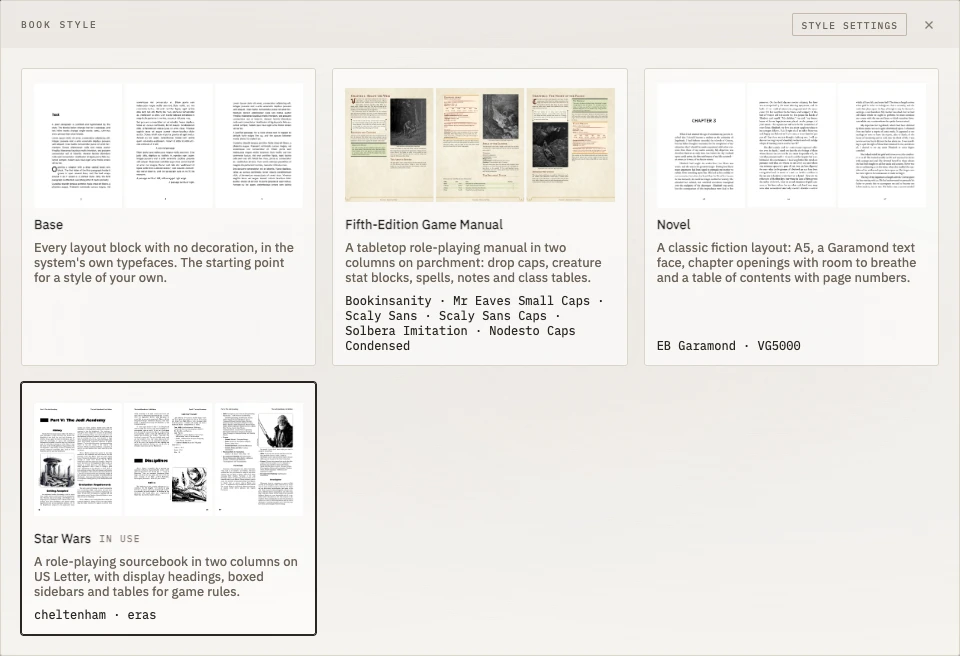
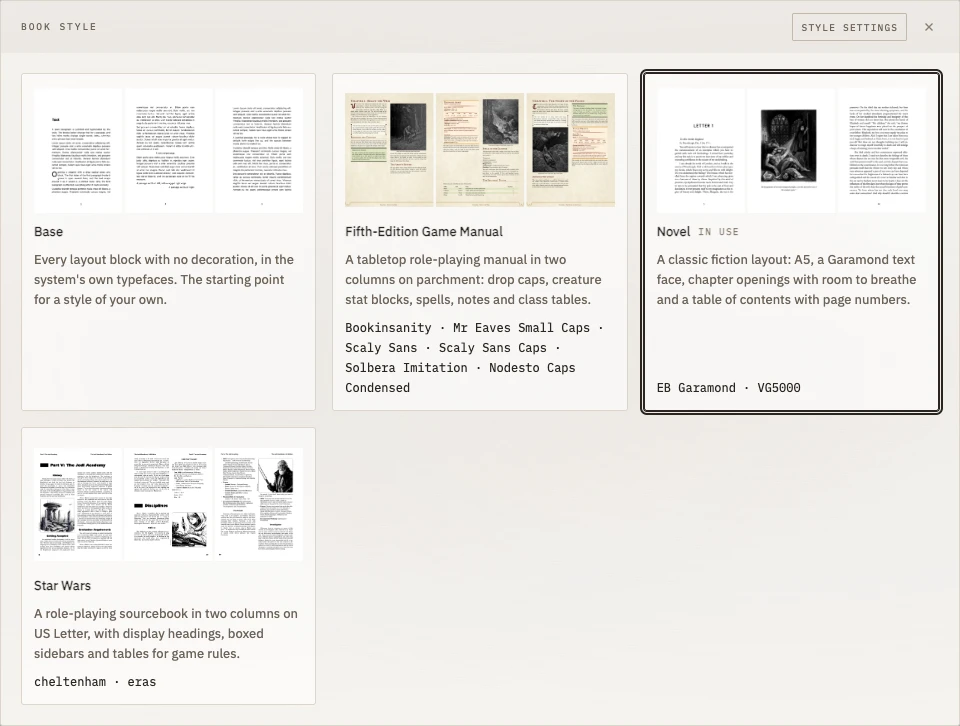
fix: refresh the typoteka style picture and drop the style count

diff --git a/web/source/_posts/typoteka.md b/web/source/_posts/typoteka.md
@@ -30,9 +30,10 @@ opening or a sidebar. Each style also tells the editor which named blocks an
 author may use, so writing for it is a matter of asking for a box or a
 single-column section rather than reproducing a look by hand.
 
-[![The style picker showing four styles, each with page thumbnails, a description and the fonts it uses](styles.webp)](styles.webp)
+[![The style picker, each style with page thumbnails, a description and the fonts it uses](styles.webp)](styles.webp)
 
-Four styles so far, from a plain undecorated one to a role-playing sourcebook.
+The styles that ship with it, from a plain undecorated one to a role-playing
+sourcebook.
 {.caption}
 
 ## The part that is design
